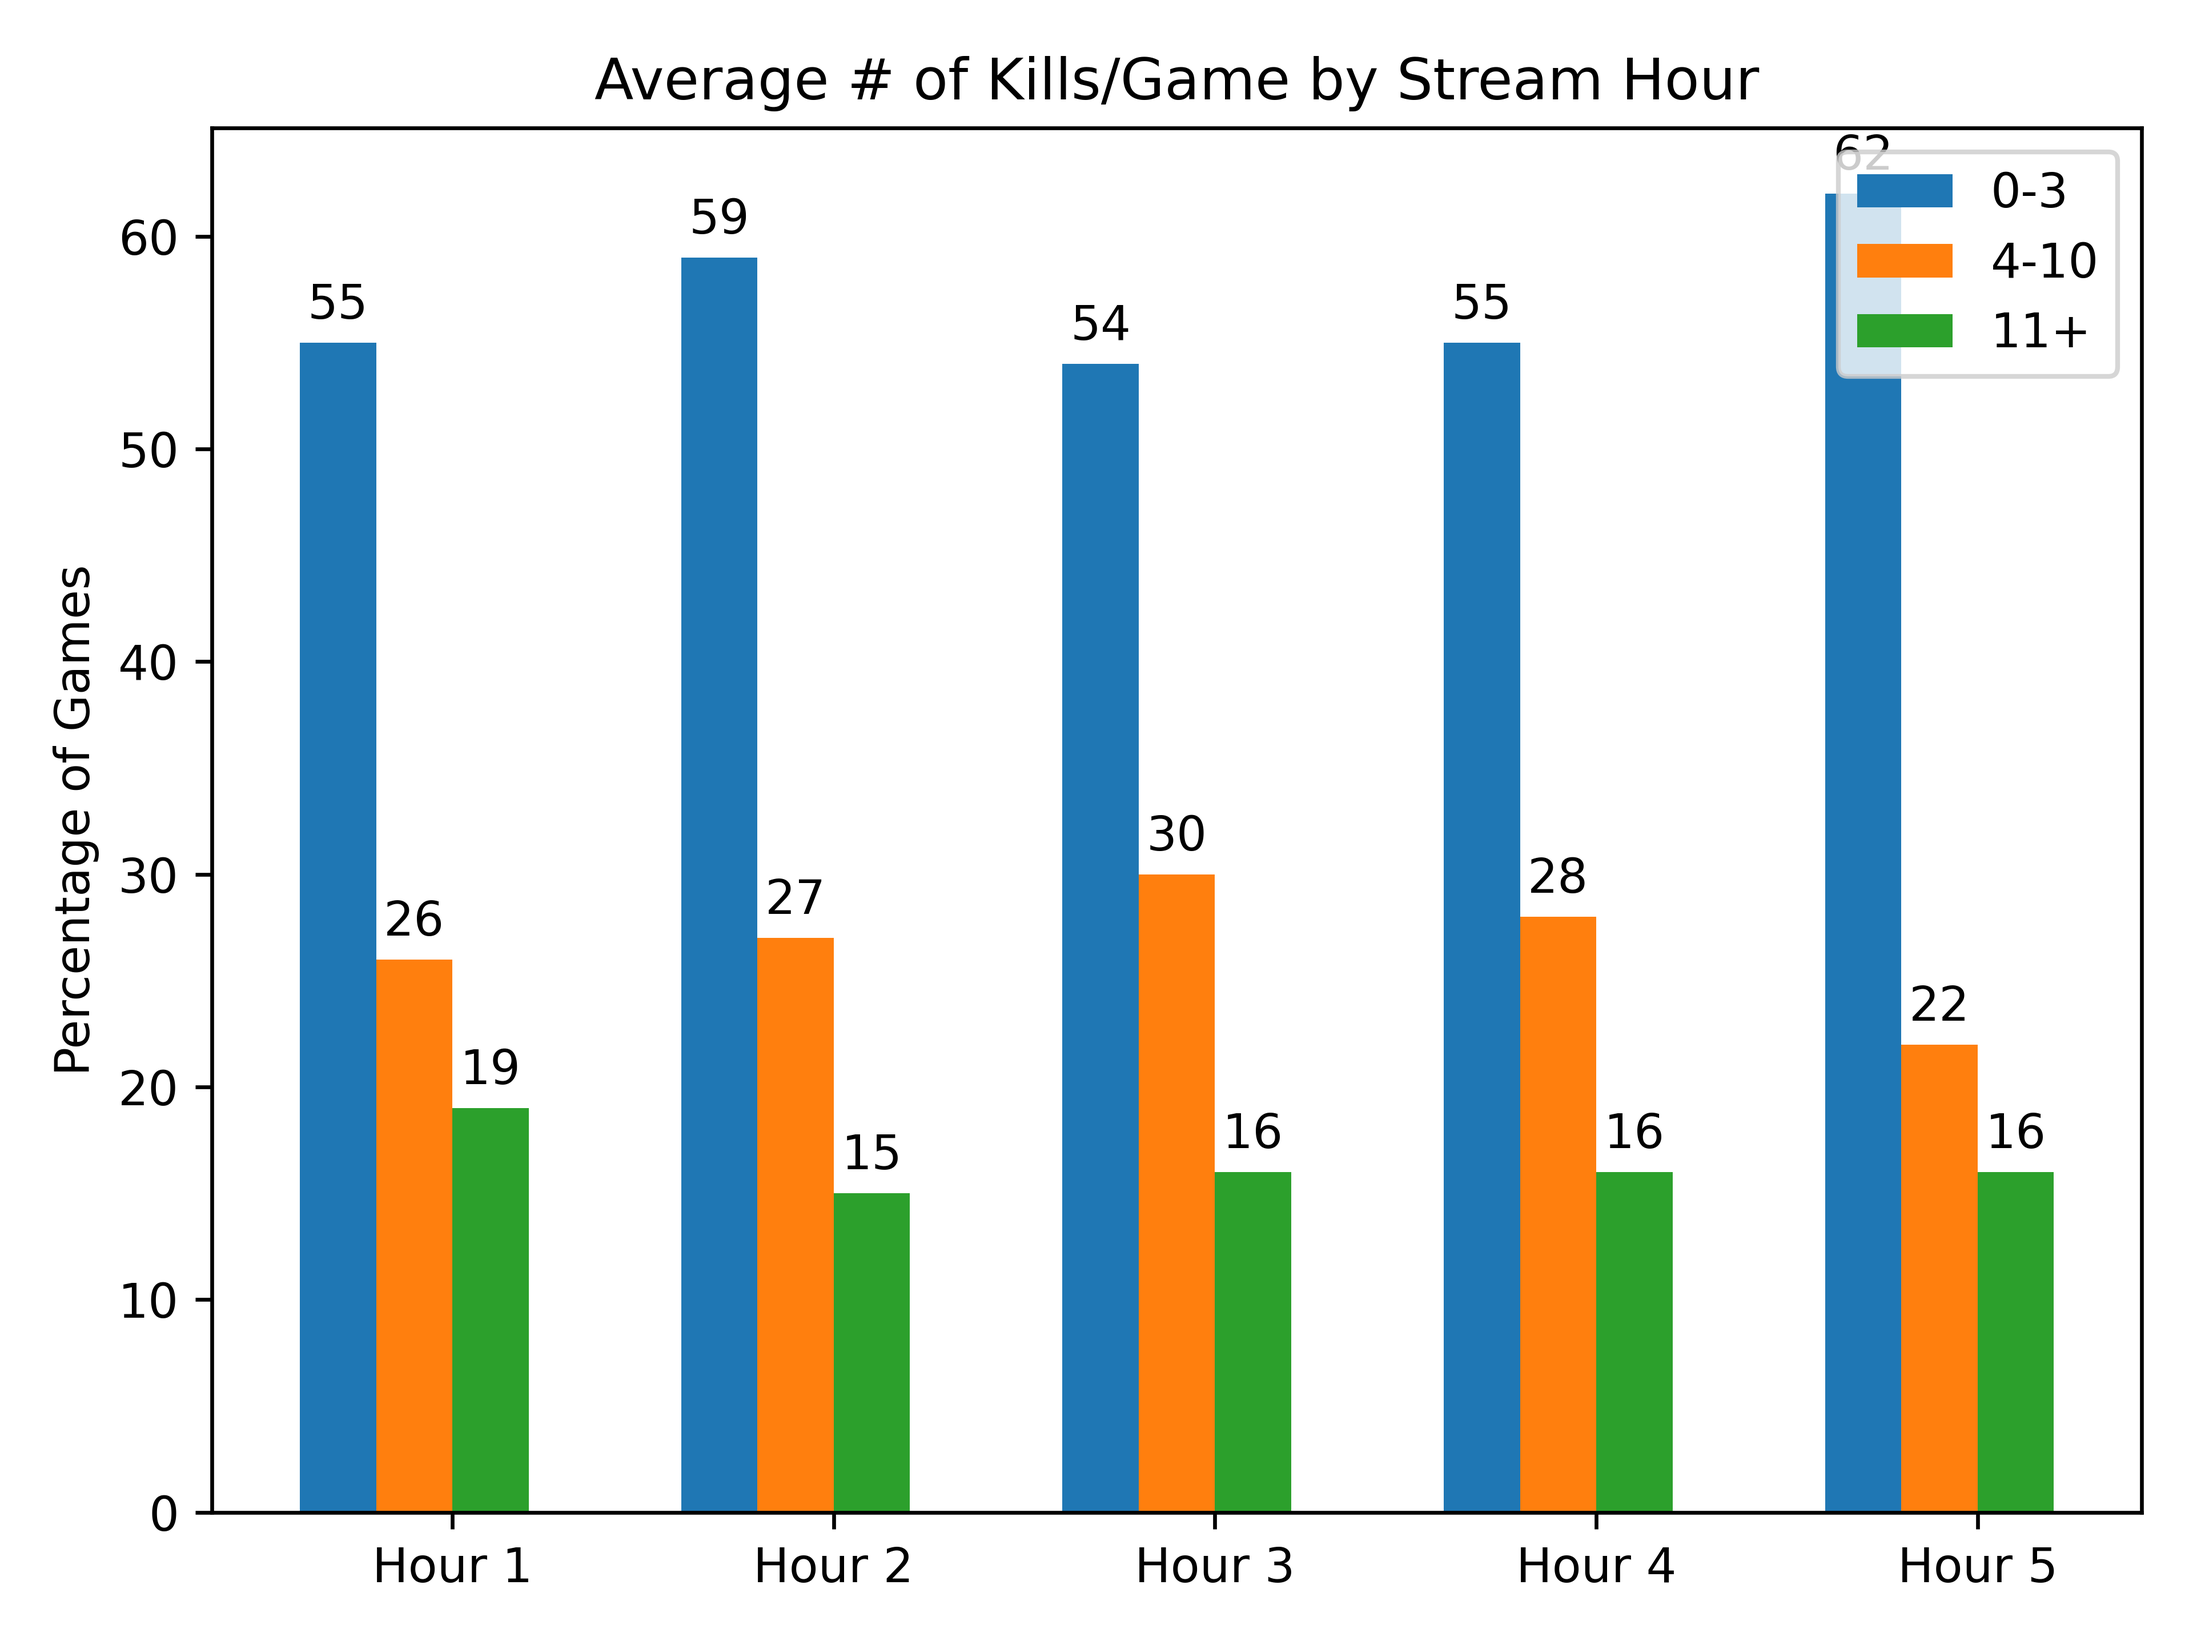
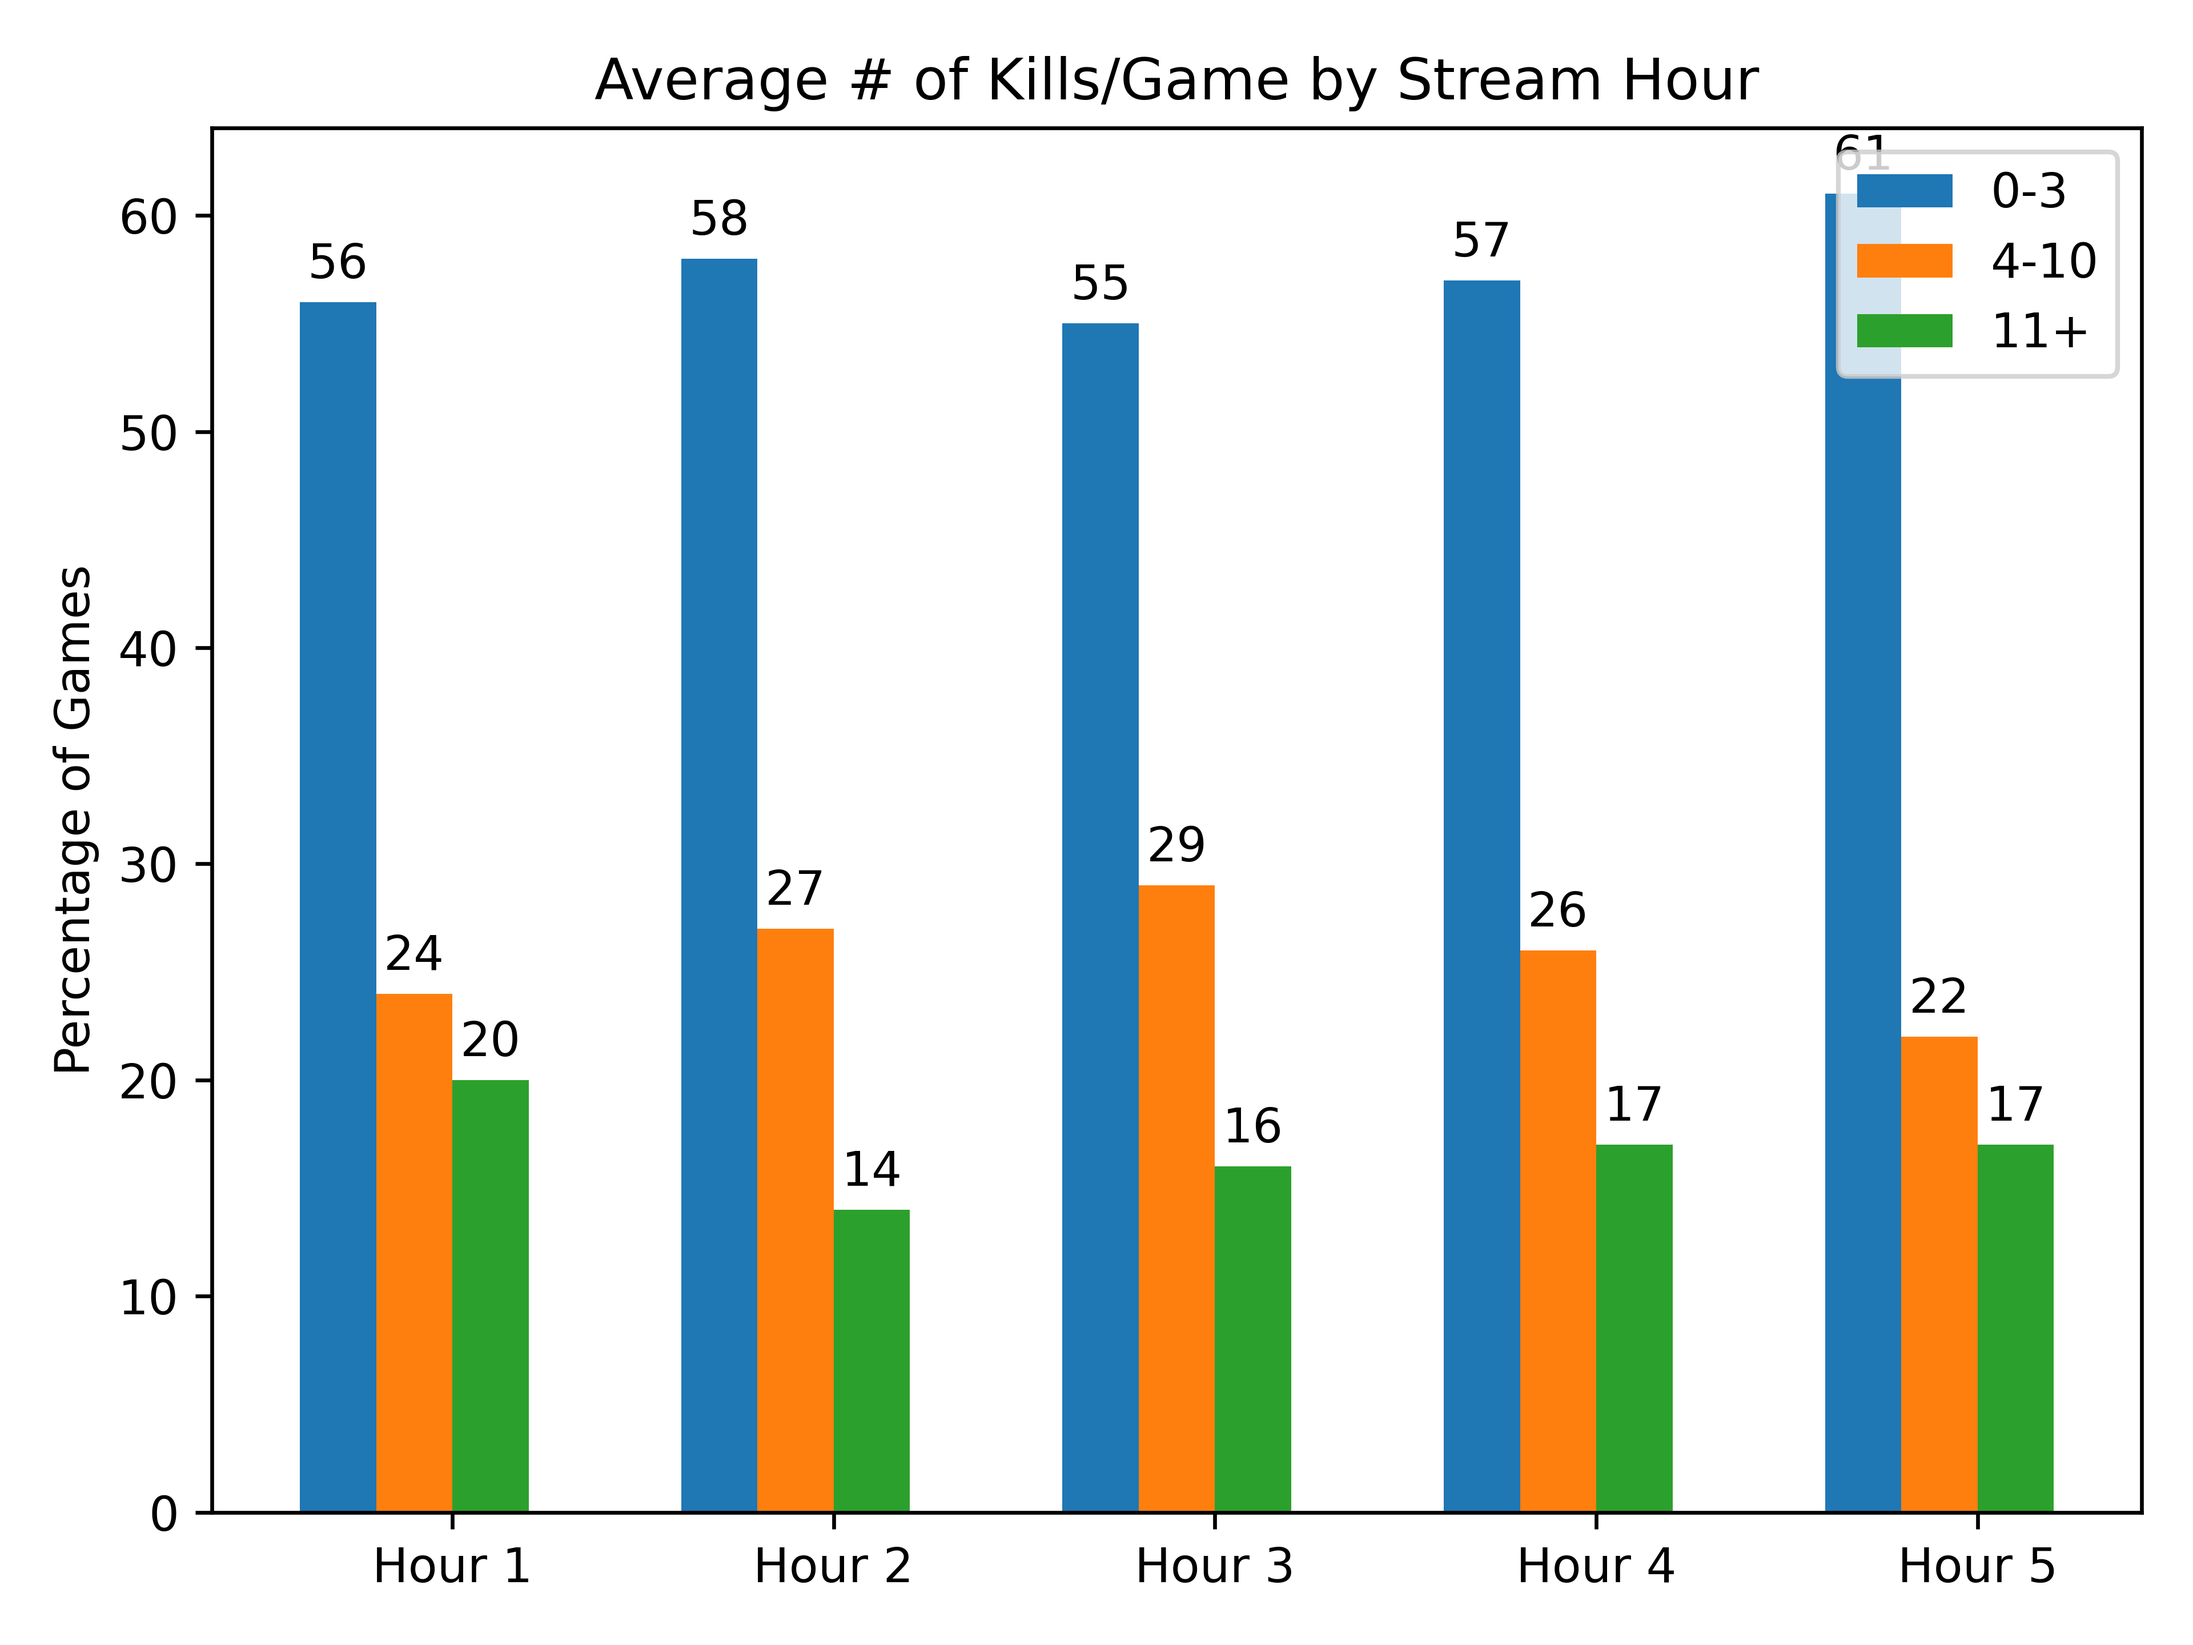
latest stats

diff --git a/babagstats.py b/babagstats.py
@@ -2,7 +2,9 @@ import json, requests, time, argparse
 from datetime import datetime
 
 import matplotlib.pyplot as plt
+from mpl_interactions import ipyplot as iplt
 import numpy as np
+import seaborn as sns
 
 # args
 parser = argparse.ArgumentParser(description='get forsen babag stats')
@@ -31,6 +33,11 @@ parser.add_argument('--genKillsPerWeekday',
                     required=False,
                     help='generate KillsPerWeekday (default: False)',
                     default=False)
+parser.add_argument('--genAllKills',
+                    type=bool,
+                    required=False,
+                    help='generate all kills histogram (default: False)',
+                    default=False)
 parser.add_argument('--earliestyear',
                     type=int,
                     required=False,
@@ -57,6 +64,7 @@ parser.add_argument('--cutoff2',
                     help='Grouping cutoff 2 (default: 10)',
                     default=10)
 
+
 parser.add_argument(
     '--numgamesonmap',
     type=int,
@@ -79,6 +87,19 @@ num_games_on_map_cutoff = args.numgamesonmap
 requestTimeout = args.requesttimeout
 
 date_fmt = '%Y-%m-%dT%H:%M:%S+0000'
+
+allmaps = [
+    "Baltic_Main",
+    "Chimera_Main" ,
+    "Desert_Main" ,
+    "DihorOtok_Main" ,
+    "Erangel_Main" ,
+    "Heaven_Main" ,
+    "Range_Main" ,
+    "Savage_Main" ,
+    "Summerland_Main" ,
+    "Tiger_Main" 
+]
 
 mapNameTranslate = {
     "Baltic_Main": "Erangel (Remastered)",
@@ -221,6 +242,69 @@ def plotKillsPerWeekday(killsPerWeekday):
     ax.bar_label(rects3, padding=3)
     fig.tight_layout()
     plt.savefig('data/killsPerWeekday.png', dpi=plot_dpi)
+    print("============================================================")
+
+
+def plotAllKills(gameList):
+    gameinfo = []
+    for g in gameList:
+        kills = g['participant']['stats']['combat']['kda']['kills']
+        time = datetime.strptime(g['started_at'], date_fmt)
+        time = (time.hour * 60) + time.minute
+        mapn = g['map_name']
+        gameinfo.append({'kills': kills, "time": time, "map": mapn})
+    
+    kills = []
+    time = []
+    maps = []
+    colors = []
+    for g in gameinfo:
+        kills.append(g['kills'])
+        time.append(g['time'])
+        maps.append(g['map'])
+        colors.append(allmaps.index(g['map']))
+    
+    kills = np.array(kills)
+    time = np.array(time)
+    maps = np.array(maps)
+    colors = np.array(colors)
+    
+    sns.histplot(x=kills, data=gameinfo, kde=True, hue=maps)
+    
+    def f_x(xrange, **kwargs):
+        return np.linspace("range", min(kills), max(), step)
+    def f_y(xrange, **kwargs):
+        return np.linspace("range", min(kills), max(), step)
+
+    controls = iplt.plot(f_x, f_y, xrange=("r", -1, 3), tau=(5, 10))
+
+    plt.show()
+    
+        
+        
+    # print('max: ' + str(max(kills)))
+    # print('max: ' + str(max(time)))
+    # print('min: ' + str(min(kills)))
+    # print('min: ' + str(min(time)))
+
+    # kills_hist = [0] * (max(kills) - min(kills))
+    # time_hist = [0] * (max(time) - min(time))
+    
+    # for g in gameinfo:
+    #     kills_hist[g['kills']] += 1
+    #     time_hist[g['time']] += 1
+
+    # fig, ax = plt.subplots()
+
+    # ax.set_ylabel('kills')
+    # ax.set_xlabel('time')
+    # ax.set_title('kills vs time')
+    # # ax.set_xticks(x, labels)
+    # ax.legend()
+    # plt.scatter(time, kills, c=colors, alpha=0.5)
+    # fig.tight_layout()
+    # plt.show()
+    # plt.savefig('data/allkills.png', dpi=plot_dpi)
     print("============================================================")
 
 
@@ -409,3 +493,6 @@ if (args.genKillsPerHour):
 
 if (args.genKillsPerWeekday):
     plotKillsPerWeekday(getKillsPerWeekday(gameData))
+
+if (args.genAllKills):
+    plotAllKills(gameData)

diff --git a/README.md b/README.md
@@ -1,14 +1,14 @@
 # Forsen BabaG Stats
-##### 673 Games (Mar 27 2022 - May 17 2022)
+##### 862 Games (Mar 27 2022 - May 28 2022)
 |Map|Image| 0-3 | 4-10 | 11+ |
 | :-: | :-: | :-: | :--: | :-: |
-| **Miramar<br>(198 games)**<br><sub>100 Players</sub>| <img src="img/Miramar.webp" width="250"/> | 55.56% | 32.32% | 12.12% |
-| **Erangel (Remastered)<br>(166 games)**<br><sub>100 Players</sub>| <img src="img/Erangel.webp" width="250"/> | 51.2% | 28.31% | 20.48% |
-| **Taego<br>(163 games)**<br><sub>100 Players</sub>| <img src="img/Taego.webp" width="250"/> | 57.06% | 28.22% | 14.72% |
-| **Sanhok<br>(48 games)**<br><sub>100 Players</sub>| <img src="img/Sanhok.webp" width="250"/> | 68.75% | 27.08% | 4.17% |
+| **Miramar<br>(230 games)**<br><sub>100 Players</sub>| <img src="img/Miramar.webp" width="250"/> | 55.65% | 32.61% | 11.74% |
+| **Taego<br>(215 games)**<br><sub>100 Players</sub>| <img src="img/Taego.webp" width="250"/> | 57.21% | 27.44% | 15.35% |
+| **Erangel (Remastered)<br>(201 games)**<br><sub>100 Players</sub>| <img src="img/Erangel.webp" width="250"/> | 52.24% | 26.87% | 20.9% |
+| **Sanhok<br>(76 games)**<br><sub>100 Players</sub>| <img src="img/Sanhok.webp" width="250"/> | 64.47% | 31.58% | 3.95% |
+| **Vikendi<br>(57 games)**<br><sub>100 Players</sub>| <img src="img/Vikendi.webp" width="250"/> | 54.39% | 24.56% | 21.05% |
 | **Karakin<br>(48 games)**<br><sub>64 Players</sub>| <img src="img/Karakin.webp" width="250"/> | 77.08% | 20.83% | 2.08% |
 | **Haven<br>(35 games)**<br><sub>32 Players</sub>| <img src="img/Haven.webp" width="250"/> | 57.14% | 37.14% | 5.71% |
-| **Vikendi<br>(15 games)**<br><sub>100 Players</sub>| <img src="img/Vikendi.webp" width="250"/> | 53.33% | 26.67% | 20.0% |
 
 |Kills By Weekday|Kills By Hour|
 | :-: | :-: |
